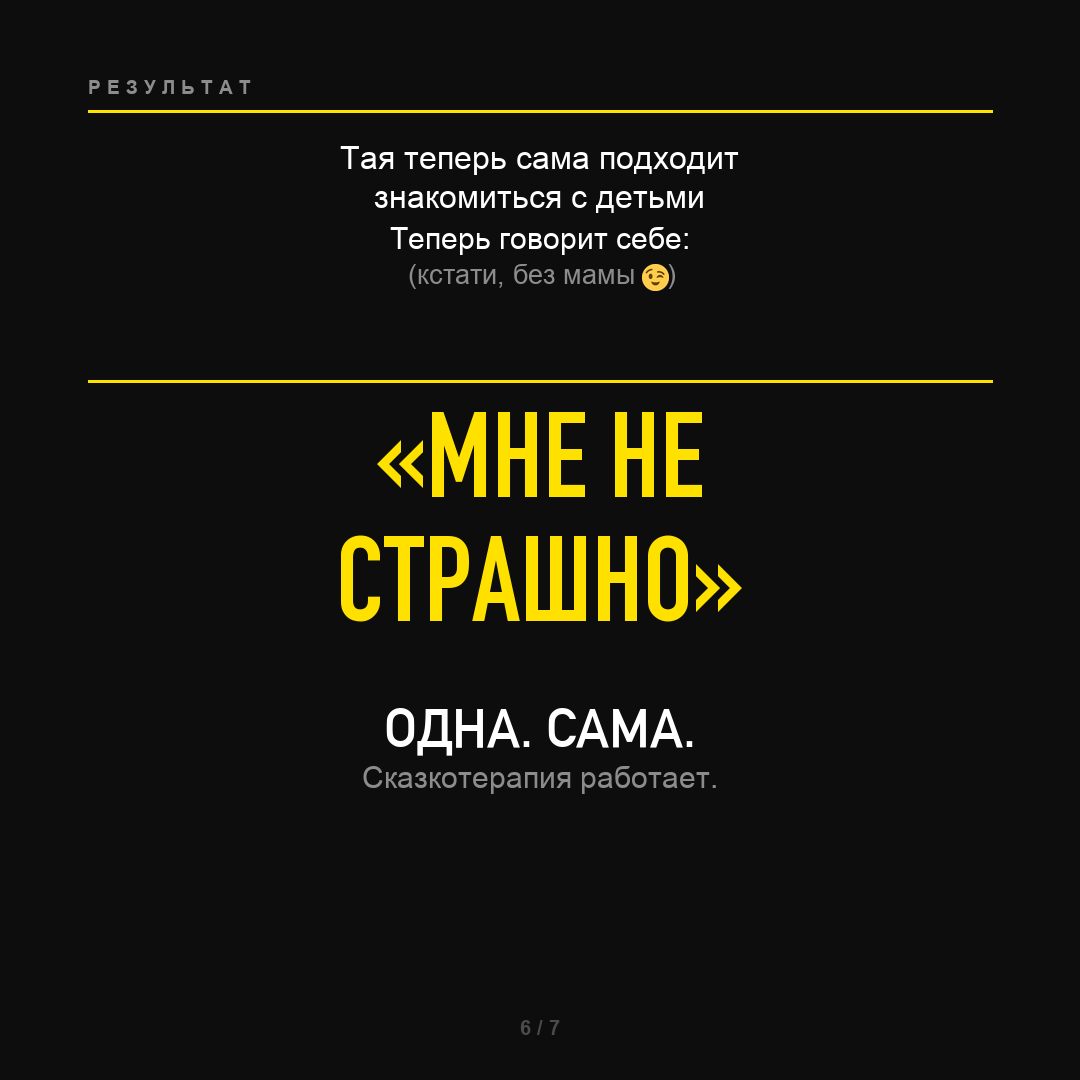
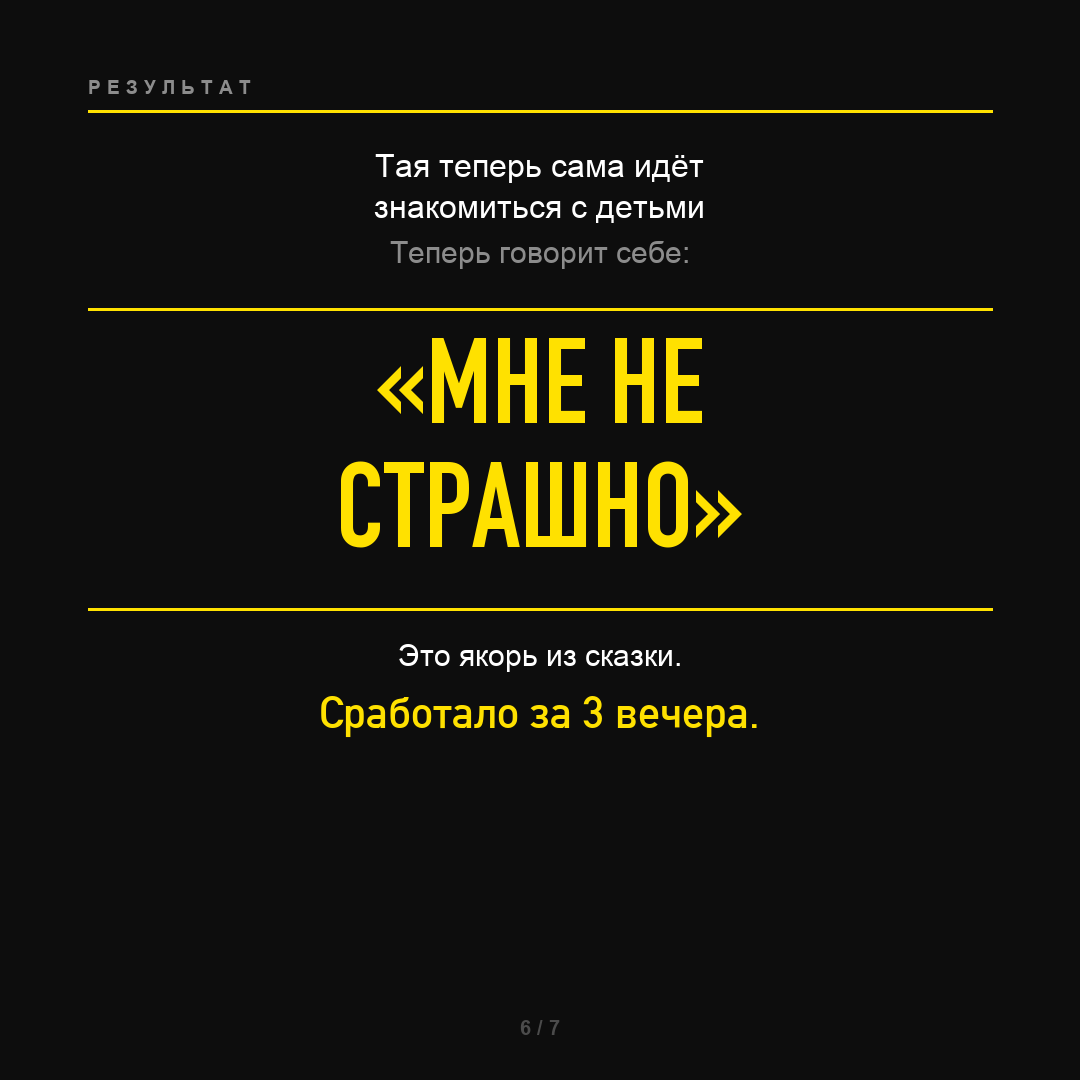
auto-sync 2026-05-23 17:56

Changed region(s): [[0.275, 0.3056, 0.7028, 0.7333], [0.3056, 0.1222, 0.6722, 0.275]]

diff --git a/marketing/cards/cards v2/generate_v2.py b/marketing/cards/cards v2/generate_v2.py
@@ -241,25 +241,25 @@ def card_06():
     hline(draw, 110)
 
     top_lines = [
-        ("Тая теперь сама подходит",        body(32), WHITE),
-        ("знакомиться с детьми",            body(32), WHITE),
-        ("",                                body(14), GREY),
-        ("Теперь говорит себе:",            body(30), WHITE),
-        ("(кстати, без мамы \U0001f609)",   body(27), GREY),
+        ("Тая теперь сама идёт",        body(32), WHITE),
+        ("знакомиться с детьми",        body(32), WHITE),
+        ("",                            body(14), GREY),
+        ("Теперь говорит себе:",        body(30), GREY),
     ]
-    draw_block(img, draw, top_lines, 140, line_gap=10, use_emoji=True)
+    draw_block(img, draw, top_lines, 148, line_gap=12)
 
-    hline(draw, 380)
+    hline(draw, 308)
 
-    draw_centered(draw, "«МНЕ НЕ",   412, big(118), YELLOW)
-    draw_centered(draw, "СТРАШНО»",  536, big(118), YELLOW)
+    draw_centered(draw, "«МНЕ НЕ",   338, big(118), YELLOW)
+    draw_centered(draw, "СТРАШНО»",  462, big(118), YELLOW)
+
+    hline(draw, 608)
 
     lines = [
-        ("",                             body(20), GREY),
-        ("ОДНА. САМА.",                  med(54),  WHITE),
-        ("Сказкотерапия работает.",      body(30), GREY),
+        ("Это якорь из сказки.",        body(30), WHITE),
+        ("Сработало за 3 вечера.",      med(44),  YELLOW),
     ]
-    draw_block(img, draw, lines, 680, line_gap=16)
+    draw_block(img, draw, lines, 638, line_gap=20)
 
     counter(draw, 6)
     save(img, "card_06_result.png")
